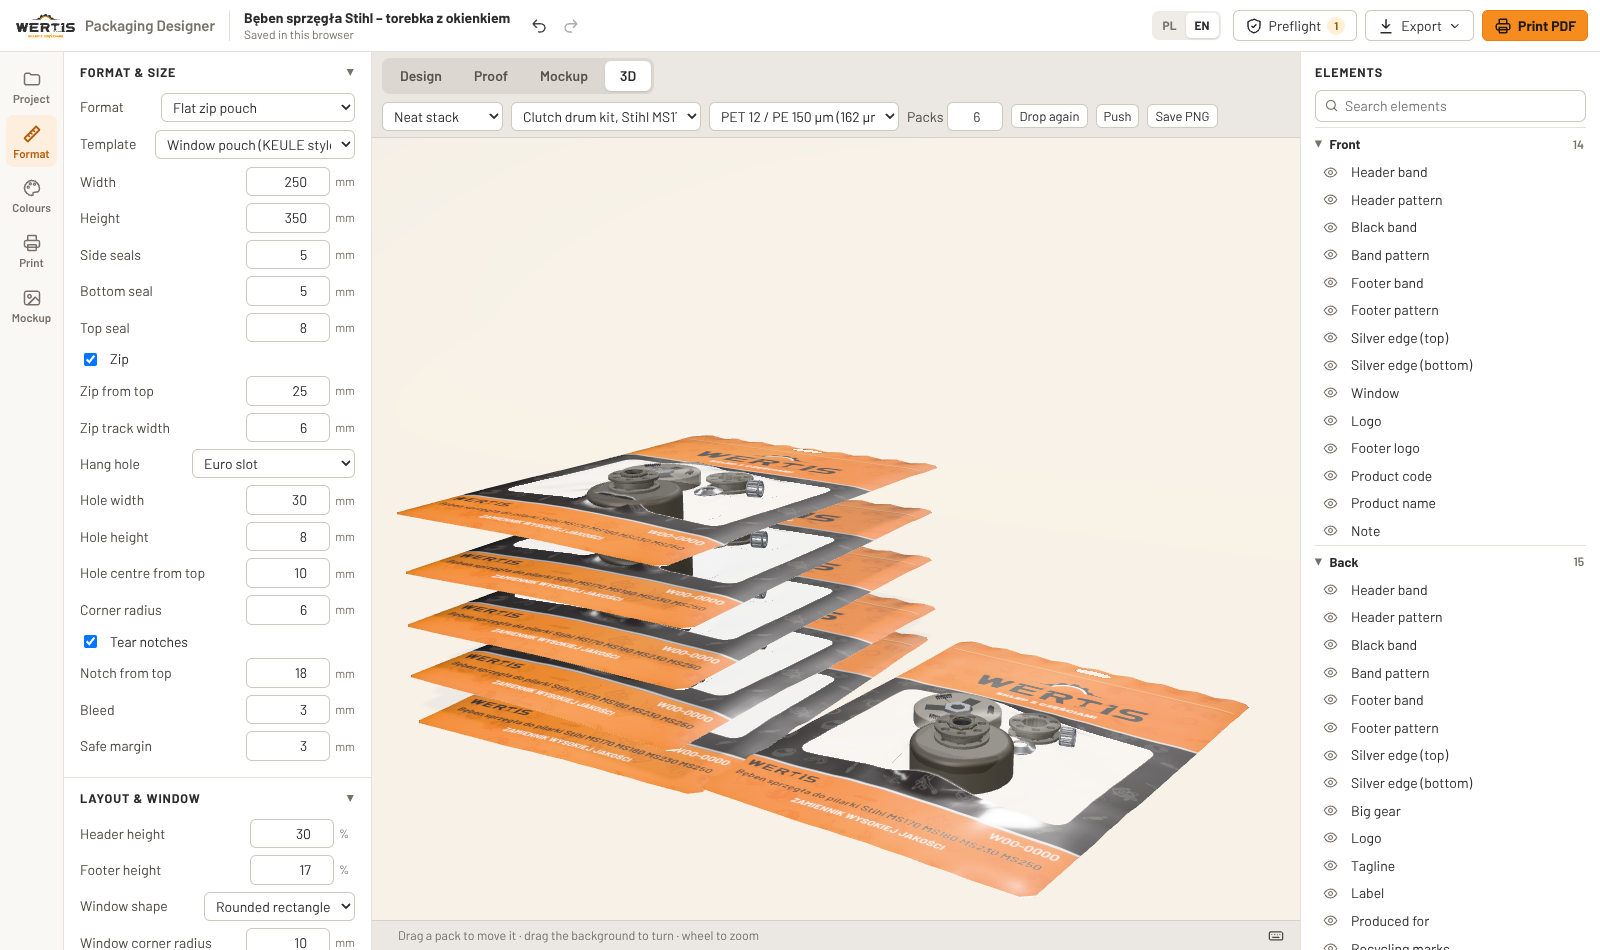
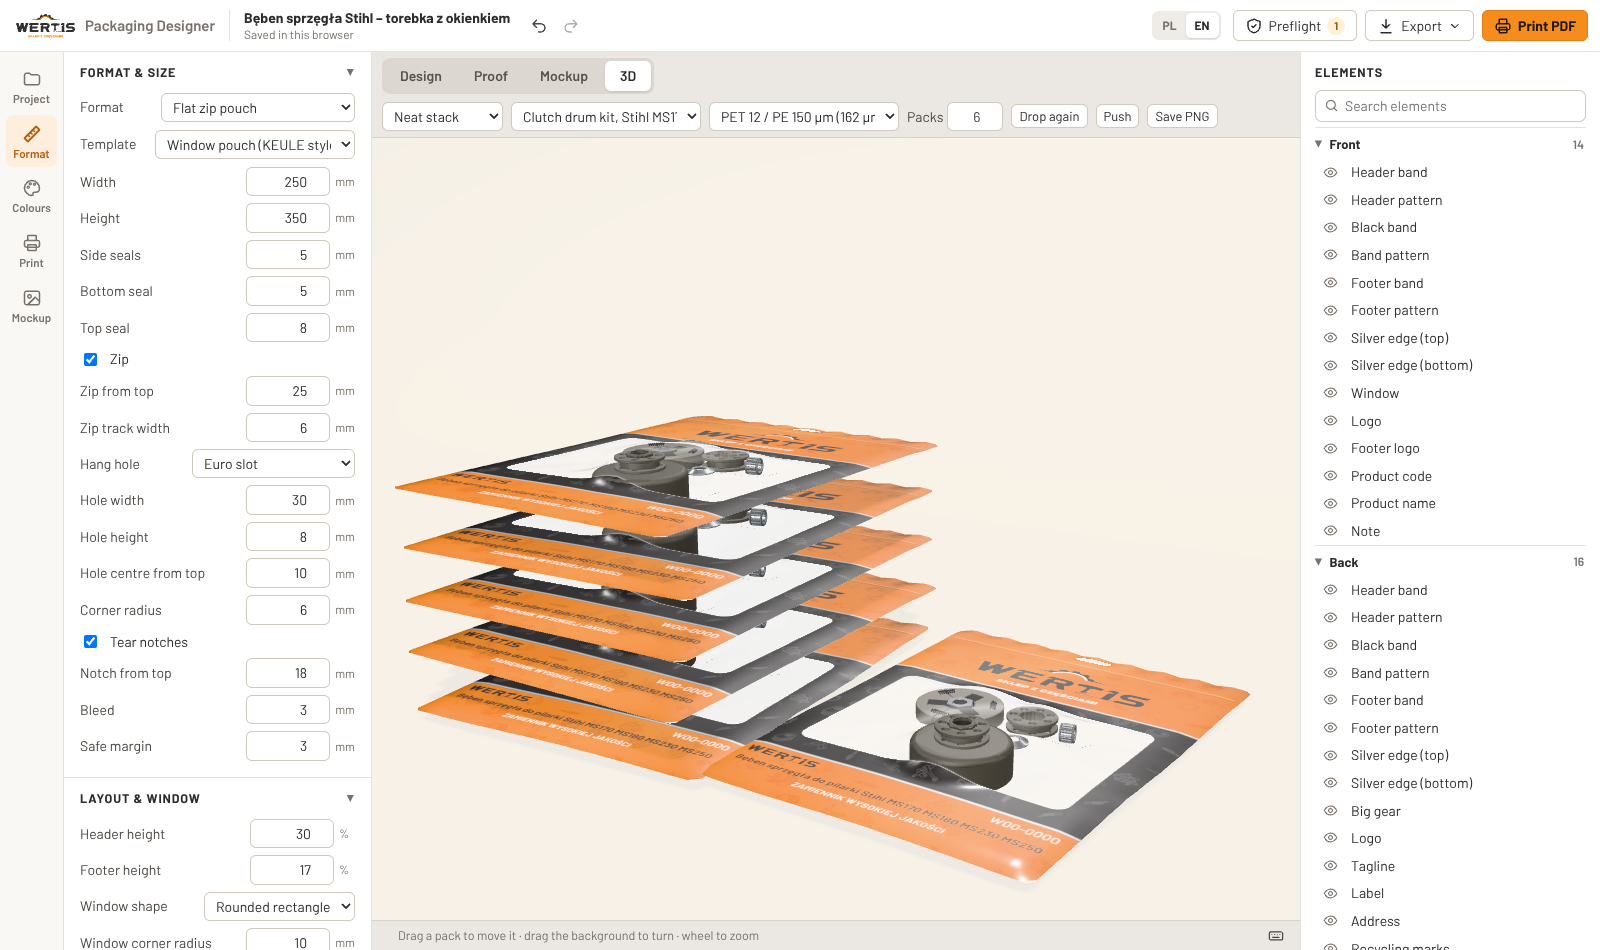
Pouch back: resizable tagline, QR code by the website, address enlarged
- The tagline (Hasło) can be moved and resized like the logo: its box
  sets the type size (the type fills the box height), and the template's
  size sets the start.
- A QR code at the right of the footer links to the link field and sits
  beside the website line; the website line makes room for it, and both
  can be moved.
- The address block loses its 'Produced for' heading and runs three
  lines larger; the element is now called Address (Adres). The box keeps
  its heading.

Tests cover the stored tagline size, the QR's text and placement, and the
address lines. The playtest's address step follows the new fields.

Claude-Session: https://claude.ai/code/session_01FnVXzPk8CL7256twG34DiS

Changed region(s): [[0.25, 0.4274, 0.7812, 0.9463], [0.8438, 0.9463, 0.875, 0.9768]]

diff --git a/src/templates/pouchWindow.js b/src/templates/pouchWindow.js
@@ -8,10 +8,13 @@
 // `edits` names the design.content keys an element shows, so the editor can offer exactly
 // those texts when the element is selected.
 import { clamp } from '../render/svg.js';
-import { LANGS, ADDRESS } from '../brand/wertis.js';
+import { LANGS } from '../brand/wertis.js';
 import { MATERIALS } from '../brand/marks.js';
 import { fitLogo, partBox, taglineUnder } from '../brand/logo.js';
 import { num, choice, toggle } from '../formats/common.js';
+
+// The pouch's address block: the company, the street and the e-mail (no "Produced for" heading).
+const ADDRESS_LINES = ['company', 'address', 'email'];
 
 export const OPTIONS = [
   num('headerPct', 'Header height', 30, 12, 60, 1, { unit: '%' }),
@@ -127,11 +130,15 @@ export function back(ctx) {
   const logo = ctx.box('back.logo', { x: S.x + S.w * 0.15, y: headTop + headH * 0.12, w: S.w * 0.7, h: headH * 0.6 });
   els.push({ id: 'back.logo', label: 'Logo', type: 'logo', layer: 'fg', layout: 'markWord', movable: true, resizable: true, keepAspect: true, box: logo,
     colors: { gear: 'dark', arc: 'white', word: 'dark', line: 'white' } });
-  // The tagline sits under the right end of WERTIS, small, as on the boxes.
+  // The tagline sits under the right end of WERTIS, small, as on the boxes. Its box can be
+  // moved and resized like the logo: its height is the type's, so a taller box is a bigger
+  // tagline, and the text shrinks to fit a narrower one. The template's size sets the start.
   const fit = fitLogo(logo, 'markWord');
   const tag = taglineUnder(partBox(fit, 'word'), { scale: (ctx.options.taglineSize ?? 100) / 100, gap: 0.55 });
-  els.push({ id: 'back.tagline', label: 'Tagline', edits: ['tagline'], type: 'text', layer: 'fg', text: c.tagline, font: 'condSemibold', align: 'right', valign: 'top', spacing: 0.02,
-    box: tag.box, size: tag.size, minSize: 1.4, colors: { fill: 'white' } });
+  const tagBox = ctx.box('back.tagline', tag.box);
+  els.push({ id: 'back.tagline', label: 'Tagline', edits: ['tagline'], type: 'text', layer: 'fg', movable: true, resizable: true, keepAspect: true,
+    text: c.tagline, font: 'condSemibold', align: 'right', valign: 'top', spacing: 0.02,
+    box: tagBox, size: tagBox.h / 0.7, minSize: 1.4, colors: { fill: 'white' } });
 
   els.push({ id: 'back.label', label: 'Label', edits: ['productName', 'sku', 'ean', 'qr', 'url'], type: 'label', layer: 'fg', movable: true, resizable: true,
     box: ctx.box('back.label', { x: S.x + S.w * 0.02, y: headerH + bodyH * 0.38, w: S.w * 0.96, h: bodyH * 0.56 }),
@@ -142,9 +149,10 @@ export function back(ctx) {
     colors: { fill: 'white', text: 'dark', accent: 'boxOrange', bars: 'black' } });
 
   const F = { x: S.x, y: footerTop + 2, w: S.w, h: Math.max(S.y + S.h - footerTop - 2, 6) };
-  els.push({ id: 'back.address', label: 'Produced for', edits: ADDRESS, type: 'text', layer: 'fg', font: 'regular', align: 'left', valign: 'middle', lineHeight: 1.25,
-    text: [c.producedFor, c.company, c.address, c.email].filter(Boolean).join('\n'),
-    box: { x: F.x, y: F.y + F.h * 0.12, w: F.w * 0.46, h: F.h * 0.76 }, size: F.h * 0.1 / 0.7, minSize: 1.4, colors: { fill: 'white' } });
+  // The address without a heading: three lines, so they run larger than the four did.
+  els.push({ id: 'back.address', label: 'Address', edits: ADDRESS_LINES, type: 'text', layer: 'fg', font: 'regular', align: 'left', valign: 'middle', lineHeight: 1.25,
+    text: [c.company, c.address, c.email].filter(Boolean).join('\n'),
+    box: { x: F.x, y: F.y + F.h * 0.12, w: F.w * 0.46, h: F.h * 0.76 }, size: (F.h * 0.1 / 0.7) * 4 / 3, minSize: 1.4, colors: { fill: 'white' } });
   const material = MATERIALS[ctx.options.recycle];
   // Then the disposal marks, then the website at the right.
   const markSize = Math.min(F.h * 0.55, F.w * 0.075);
@@ -156,8 +164,14 @@ export function back(ctx) {
     els.push({ id: 'back.marks', label: 'Recycling marks', type: 'marks', layer: 'fg', marks, material, movable: true, resizable: true, keepAspect: true, box: mb, colors: { fill: 'black' } });
     urlX = Math.max(urlX, mb.x + mb.w + F.w * 0.03);
   }
+  // A QR code at the far right links to the site (the link field, which is the QR's text);
+  // the website line sits beside it.
+  const qrSize = Math.min(F.h * 0.5, F.w * 0.11);
+  const qrBox = ctx.box('back.urlQr', { x: F.x + F.w - qrSize, y: F.y + (F.h - qrSize) / 2, w: qrSize, h: qrSize });
+  els.push({ id: 'back.urlQr', label: 'QR code', edits: ['qr'], type: 'qr', layer: 'fg', text: c.qr, movable: true, resizable: true, keepAspect: true,
+    box: qrBox, colors: { dots: 'black', bg: 'white' } });
   els.push({ id: 'back.url', label: 'Website', edits: ['url'], type: 'text', layer: 'fg', text: c.url, font: 'bold', align: 'right', valign: 'middle',
-    box: { x: urlX, y: F.y + F.h * 0.35, w: F.x + F.w - urlX, h: F.h * 0.3 }, size: F.h * 0.15 / 0.7, minSize: 1.6, colors: { fill: 'white' } });
+    box: { x: urlX, y: F.y + F.h * 0.35, w: Math.max(qrBox.x - F.w * 0.02 - urlX, 4), h: F.h * 0.3 }, size: F.h * 0.15 / 0.7, minSize: 1.6, colors: { fill: 'white' } });
   return els;
 }
 

diff --git a/test/flatPouch.test.js b/test/flatPouch.test.js
@@ -2,6 +2,8 @@ import { test } from 'node:test';
 import assert from 'node:assert/strict';
 import { layout, FIELDS } from '../src/formats/flatPouch.js';
 import { normalizeDims } from '../src/formats/common.js';
+import { geometry, panelsWithElements } from '../src/render/sheet.js';
+import { design, env } from './helpers.js';
 
 const defaults = normalizeDims(FIELDS, {});
 
@@ -46,4 +48,21 @@ test('dimension lines cover the total, each panel and the height', () => {
 test('numbers outside the limits are clamped', () => {
   assert.equal(layout({ width: 5, height: 99999 }).dims.width, 40);
   assert.equal(layout({ width: 5, height: 99999 }).dims.height, 1000);
+});
+
+test('a QR code on the back links to the website, beside the website line, inside the footer', () => {
+  const d = design();
+  const parts = panelsWithElements(d, env(), geometry(d));
+  const byId = (id) => parts.flatMap((p) => p.elements).find((e) => e.id === id);
+  const qr = byId('back.urlQr');
+  const url = byId('back.url');
+  assert.equal(qr.type, 'qr');
+  assert.equal(qr.text, d.content.qr, 'the link field is the QR code’s text');
+  assert.ok(url.box.x + url.box.w <= qr.box.x, 'the website line ends before the QR code');
+  const back = parts.find(({ elements }) => elements.some((e) => e.id === 'back.url'));
+  assert.ok(qr.box.x + qr.box.w <= back.panel.w && qr.box.y >= back.panel.info.safe.y, 'inside the panel and its safe area');
+  // Moved by hand, the website line makes room for it again.
+  const moved = panelsWithElements({ ...d, layout: { 'back.urlQr': { x: 0.2, y: 0.5, w: 0.1, h: 0.1 } } }, env(), geometry(d));
+  const q2 = moved.flatMap((p) => p.elements).find((e) => e.id === 'back.urlQr');
+  assert.ok(q2.box.x < qr.box.x, 'the box is where it was put');
 });

diff --git a/scripts/playtest.js b/scripts/playtest.js
@@ -169,14 +169,14 @@ export async function playtest() {
     assert.deepEqual(await page.evaluate(() => window.wertis.store.get().hidden), {}, 'Show all shows it again');
     step('hover names the element; right-click → Hide, then Show all');
 
-    // Texts are edited on the element: double-click "Produced for", type on its card.
+    // Texts are edited on the element: double-click the address, type on its card.
     const addrAt = await pointOn(page, 'back.address');
     assert.ok(addrAt, 'the address is on screen');
     await page.mouse.dblclick(addrAt.x, addrAt.y);
-    await page.waitForFunction(() => document.querySelector('.insp-title')?.textContent === 'Produced for');
-    assert.equal(await page.evaluate(() => document.activeElement.id), 't-content-producedFor', 'the cursor is in its first line');
+    await page.waitForFunction(() => document.querySelector('.insp-title')?.textContent === 'Address');
+    assert.equal(await page.evaluate(() => document.activeElement.id), 't-content-company', 'the cursor is in its first line');
     const fields = await page.evaluate(() => [...document.querySelectorAll('.insp-texts input, .insp-texts textarea')].map((i) => i.id));
-    assert.deepEqual(fields, ['t-content-producedFor', 't-content-company', 't-content-address', 't-content-email']);
+    assert.deepEqual(fields, ['t-content-company', 't-content-address', 't-content-email']);
     await page.fill('#t-content-company', 'WERTIS Sp. z o.o. (test)');
     assert.equal(await page.evaluate(() => window.wertis.store.get().content.company), 'WERTIS Sp. z o.o. (test)');
     // The label offers the product name (main language first), the codes and the link.

diff --git a/test/tagline.test.js b/test/tagline.test.js
@@ -31,3 +31,22 @@ for (const [format, template, ids] of [['flatPouch', 'pouchWindow', ['back.tagli
     assert.notEqual(a, b);
   });
 }
+
+test('the back tagline can be moved and resized: its box sets the type size', () => {
+  const d = design({ format: 'flatPouch', template: 'pouchWindow' });
+  const base = tagline(d, 'back.tagline');
+  assert.ok(base.movable && base.resizable, 'it has the handles and the position fields');
+  assert.ok(Math.abs(base.size - base.box.h / 0.7) < 1e-9, 'the type fills the box height');
+  // The panel the tagline sits on, to store boxes as fractions of it (as the editor does).
+  const panel = panelsWithElements(d, env(), geometry(d)).find(({ elements }) => elements.some((e) => e.id === 'back.tagline')).panel;
+  const stored = (b) => ({ x: b.x / panel.w, y: b.y / panel.h, w: b.w / panel.w, h: b.h / panel.h });
+  // The same box, twice as tall (the top and the right end kept): twice the type.
+  const tall = { x: base.box.x, y: base.box.y, w: base.box.w, h: base.box.h * 2 };
+  const big = tagline({ ...d, layout: { 'back.tagline': stored(tall) } }, 'back.tagline');
+  assert.ok(Math.abs(big.size / base.size - 2) < 1e-9, `size ${big.size.toFixed(2)} mm, default ${base.size.toFixed(2)} mm`);
+  // The artwork follows the box, and taking the position back brings the default.
+  const a = renderSheet(d, env(), { mode: 'print' }).svg;
+  const b = renderSheet({ ...d, layout: { 'back.tagline': stored(tall) } }, env(), { mode: 'print' }).svg;
+  assert.notEqual(a, b);
+  assert.equal(tagline({ ...d, layout: {} }, 'back.tagline').size, base.size);
+});

diff --git a/test/edits.test.js b/test/edits.test.js
@@ -3,7 +3,6 @@ import assert from 'node:assert/strict';
 import { FORMATS } from '../src/registry.js';
 import { createDesign } from '../src/design.js';
 import { panelsWithElements } from '../src/render/sheet.js';
-import { ADDRESS } from '../src/brand/wertis.js';
 import { env } from './helpers.js';
 
 // Every element that prints words or codes says which texts it shows, so the editor can
@@ -28,7 +27,8 @@ test('the label offers its name, codes and link; Produced for its address', () =
   const els = panelsWithElements(d, env()).flatMap((p) => p.elements);
   const byId = Object.fromEntries(els.map((e) => [e.id, e]));
   assert.deepEqual(byId['back.label'].edits, ['productName', 'sku', 'ean', 'qr', 'url']);
-  assert.deepEqual(byId['back.address'].edits, ADDRESS);
+  assert.deepEqual(byId['back.address'].edits, ['company', 'address', 'email'], 'the pouch’s address has no heading');
+  assert.equal(byId['back.address'].text, [d.content.company, d.content.address, d.content.email].join('\n'));
   // The box drops its barcode when the EAN is empty; its product code still offers the EAN.
   const box = createDesign({ format: 'tuckBox' });
   box.content.ean = '';

diff --git a/src/i18n/labels.pl.js b/src/i18n/labels.pl.js
@@ -102,6 +102,7 @@ export default {
   'Tagline': 'Hasło',
   'Label': 'Etykieta',
   'Produced for': 'Wyprodukowano dla',
+  'Address': 'Adres',
   'Recycling marks': 'Znaki recyklingu',
   'Website': 'Strona www',
   'Gusset fill': 'Wypełnienie fałdy',

diff --git a/README.md b/README.md
@@ -99,7 +99,9 @@ logos, label and recycling marks on the preview. The editor speaks Polish or Eng
 
   **Save PNG** takes a snapshot. Drag to orbit the camera; scroll to zoom.
 
-"Quality You Can Trust" has its own size setting under **Format → Layout & window** (40 to 300 %). It stays right-aligned under the WERTIS word on the pouch back, the box front and the lid.
+"Quality You Can Trust" has its own size setting under **Format → Layout & window** (40 to 300 %). It stays right-aligned under the WERTIS word on the pouch back, the box front and the lid. On the pouch back it can also be moved and resized on the preview, like the logo: pull its corner, or type its height in the card.
+
+The pouch back carries a QR code beside the website line. It links to the link field under Texts, and can be moved and resized too.
 
 The pattern of parts icons comes in two styles: solid silhouettes, or outlines. The recycling
 marks (the triangle with the material code, plus the tidyman) are vector shapes; pick the
@@ -120,9 +122,10 @@ material under **Format → Layout & window**.
 - **Texts are edited on the element that shows them.** Select a text (or double-click it, or
   right-click → Edit the text) and its card offers exactly its words: the label its product
   name (the pack's main language first, the other languages folded under it), product code,
-  EAN-13 (checked as you type), QR link and website; "Produced for" its four lines; the box's
-  technical data its heading and one line per item; and so on. A box drops its barcode when the
-  EAN is empty, so its product code offers the EAN too.
+  EAN-13 (checked as you type), QR link and website; the pouch's address its company, street
+  and e-mail (no heading; the box keeps "Produced for" as its heading); the box's technical data
+  its heading and one line per item; and so on. A box drops its barcode when the EAN is empty,
+  so its product code offers the EAN too.
 
 ### Editing on the preview
 
